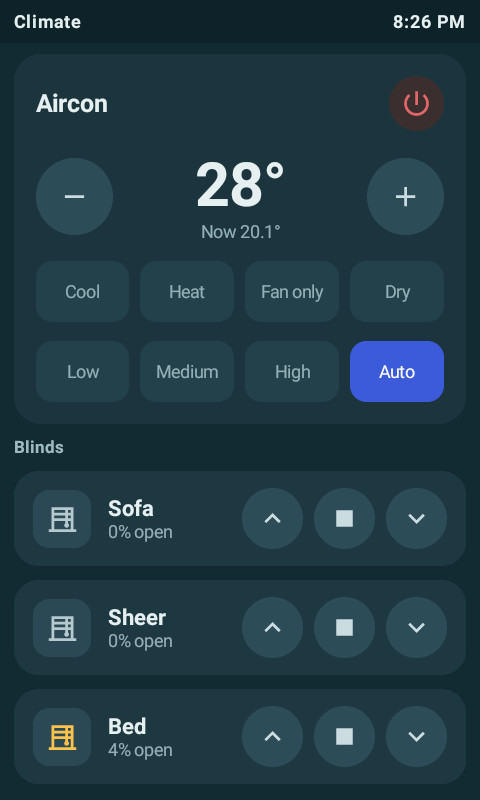
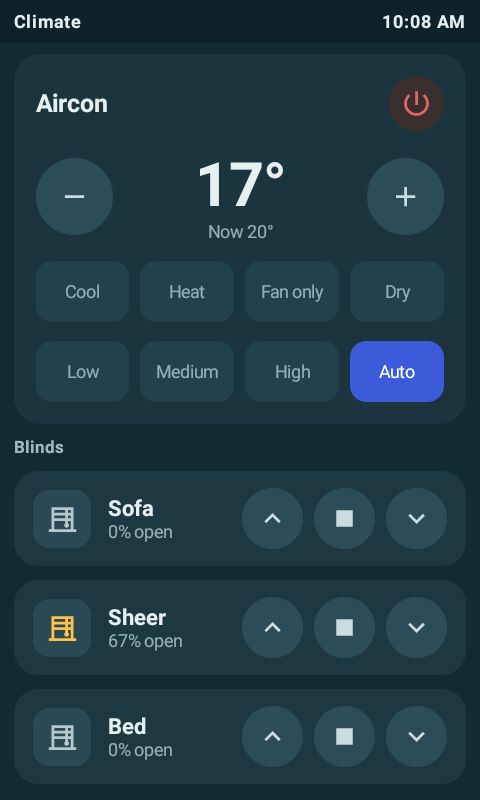
v1.2.0: new screenshots, README and changelog

diff --git a/README.md b/README.md
@@ -54,12 +54,14 @@ Requirements: Android Studio (Ladybug or newer) with the Android SDK.
 | Main | TV / Plex | Sonos |
 |---|---|---|
 | ![Main](screenshots/main.png) | ![TV and Plex](screenshots/tv-plex.png) | ![Sonos player](screenshots/sonos-player.png) |
-| **Plex rows** | **Music shelves** (swipe) | **Climate** |
-| ![Plex rows](screenshots/tv-plex-rows.png) | ![Music shelves](screenshots/sonos-media.png) | ![Climate](screenshots/climate.png) |
-| **Alarm** | **Alarm — snoozed** | **IR Mode** |
-| ![Alarm ringing](screenshots/alarm-ringing.png) | ![Alarm snoozed](screenshots/alarm-snoozed.png) | ![IR Mode](screenshots/ir-mode.png) |
-| **Speaker group** | | |
-| ![Speaker group and volume](screenshots/sonos-group.png) | | |
+| **TV — nothing on** | **Plex rows** | **Music shelves** (tab) |
+| ![TV idle](screenshots/tv-idle.png) | ![Plex rows](screenshots/tv-plex-rows.png) | ![Music shelves](screenshots/sonos-media.png) |
+| **Speaker zones** (tab) | **Climate** | **Alert popup** |
+| ![Speaker zones](screenshots/sonos-group.png) | ![Climate](screenshots/climate.png) | ![Washer done alert](screenshots/alert-washer.png) |
+| **Docked screensaver** | **Alarm** | **Alarm — snoozed** |
+| ![Screensaver](screenshots/screensaver.png) | ![Alarm ringing](screenshots/alarm-ringing.png) | ![Alarm snoozed](screenshots/alarm-snoozed.png) |
+| **IR Mode** | | |
+| ![IR Mode](screenshots/ir-mode.png) | | |
 
 ![Hold to stop the alarm](screenshots/alarm-hold-to-stop.gif)
 
@@ -70,12 +72,18 @@ overlay and popup (`robovac-*.png`), and the light colour popup (`light-*.png`).
 ### What it does
 
 - **Main** — a glance panel (date, time, weather now + 5 days, next diary entry
-  and next alarm), a door-lock card, a live floorplan with tappable lights,
-  mmWave presence dots and the robot vacuum, and a one-tap mute strip.
-- **TV / Plex** — what's on the TV, plus Plex poster rows where one tap plays
-  the exact episode or film, even from a switched-off TV.
-- **Media** — the full Sonos player with album-art shelves swiped in behind it,
-  playlist shortcuts and speaker grouping.
+  and next alarm), a one-button door lock, a row of scene pills (the last one
+  used glows), and a live floorplan with tappable lights, mmWave presence dots
+  and the robot vacuum, with the now-playing / mute strip floating along its
+  bottom edge.
+- **TV / Plex** — one-tap app logos, the poster and title of what's being
+  watched (a Samsung Serif illustration when nothing is on) with transport and
+  volume, plus Plex poster rows where one tap plays the exact episode or film,
+  even from a switched-off TV.
+- **Media** — the full Sonos player, with Player / Media / Zones tabs for
+  album-art shelves, playlist shortcuts and speaker grouping.
+- **Alerts** — leak, intruder, washer-done and door-left-unlocked popups in the
+  alarm's style, driven entirely by Home Assistant state.
 - **Climate** — aircon with HVAC and fan modes, and the blinds.
 - **Alarm popup** — wakes the screen for a Home Assistant alarm; snooze with a
   tap, stop with a hold.

diff --git a/CHANGELOG.md b/CHANGELOG.md
@@ -1,9 +1,45 @@
 # Changelog
 
-## Unreleased — 2026-09-26
+## v1.2.0 — 2026-09-27
 
-A reworked Media page: Player / Media / Zones tabs, a Music Assistant
-"Random albums" shelf, and neater shelves.
+A redesigned TV page and Main page, alert popups, a docked screensaver and
+wake word, and a reworked Media page (Player / Media / Zones tabs, a Music
+Assistant "Random albums" shelf, neater shelves).
+
+### New (2026-09-27)
+
+- **Alert popups.** An `alerts` list in dashboard.json raises a near-full-screen
+  popup in the alarm's style while an entity condition holds (`state`,
+  `for_seconds`, `unless`), with action buttons and Hide. `alarm` wakes the
+  screen and keeps it on, `warning` wakes it once, `info` waits to be seen.
+  Taps land even over the screensaver.
+- **TV card** (`media_player` `"variant": "tv"`): a wide hero with the poster,
+  title and series of what's on (from the first `art_entities` entry that is
+  playing), a `placeholder` image when nothing is, a plain mute / prev / play /
+  next / volume row (`volume_entity`), and an `apps` row of launcher tiles
+  across the top — logo-only with `icon`, or letter badge / wordmark.
+- **Scene pills** (`scene_grid` `"style": "pill"`): a scrolling row of pills with
+  a glowing colour dot; the most recently activated scene is lit.
+- **Floorplan overlay and stretch** (`picture_elements`): `overlay` floats
+  another card (e.g. `now_playing`) over the plan — at a % row or pinned to the
+  bottom edge — and `stretch` fills the slot without cropping, keeping the
+  lowest icon clear of a bottom overlay.
+- `button_grid` buttons take `color` / `text_color`.
+
+### Changed (2026-09-27)
+
+- **Door lock** is one button showing Locked / Unlocked that toggles it.
+- **Plex shelves** load in parallel and reappear instantly on revisits.
+
+### Fixed (2026-09-27)
+
+- The wake word no longer streams audio after Home Assistant has ended the run
+  (HA logged "binary message for non-existing handler" hundreds of times a
+  day): frames stop with the run, the hour-long wait is rolled over before
+  HA's timeout, and frames from a previous connection are dropped.
+- A heartbeat could ping a reconnected socket before authenticating (HA then
+  drops the connection), and a server-side close never reconnected.
+- Long scene / app labels no longer break mid-word.
 
 ### New
 
